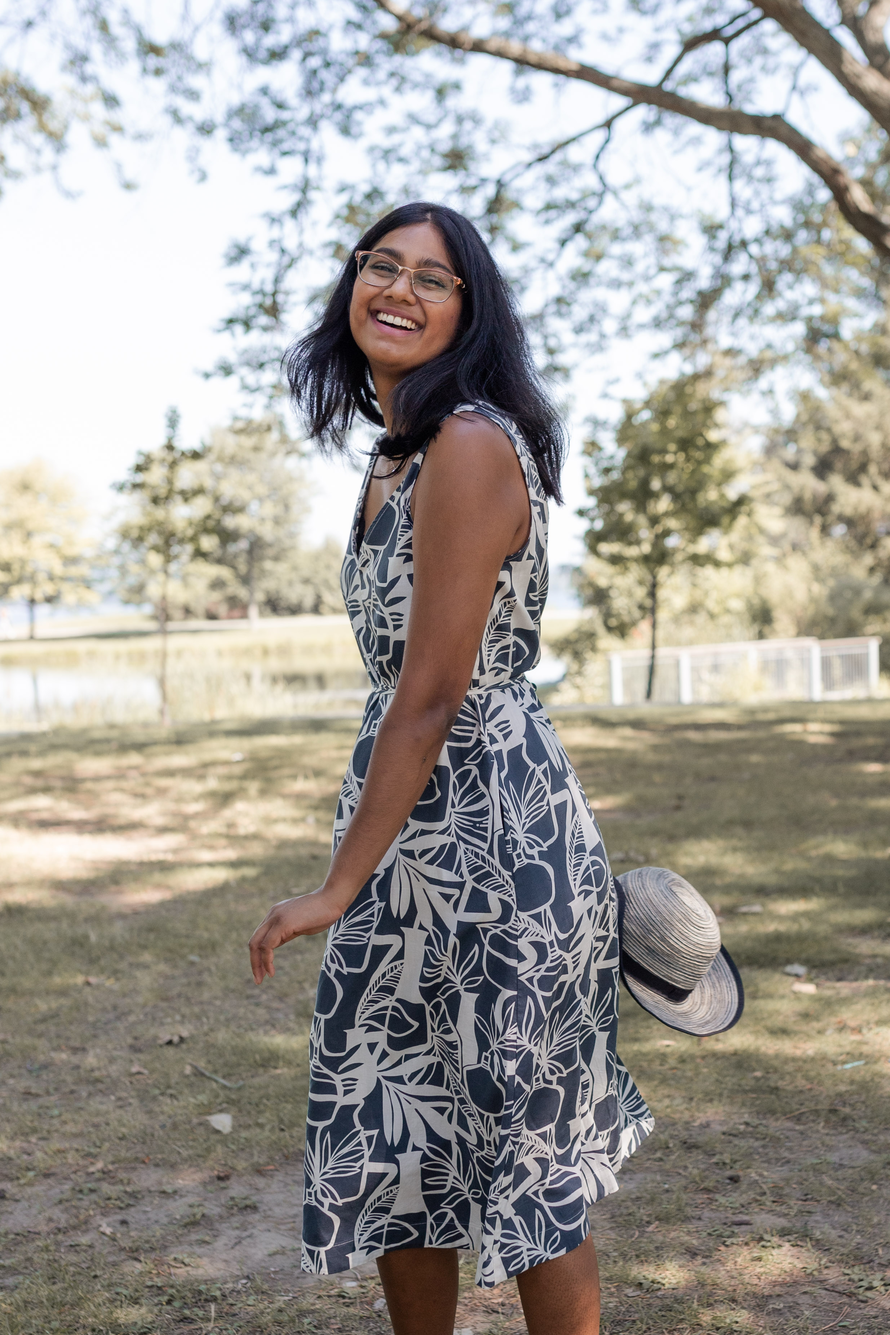
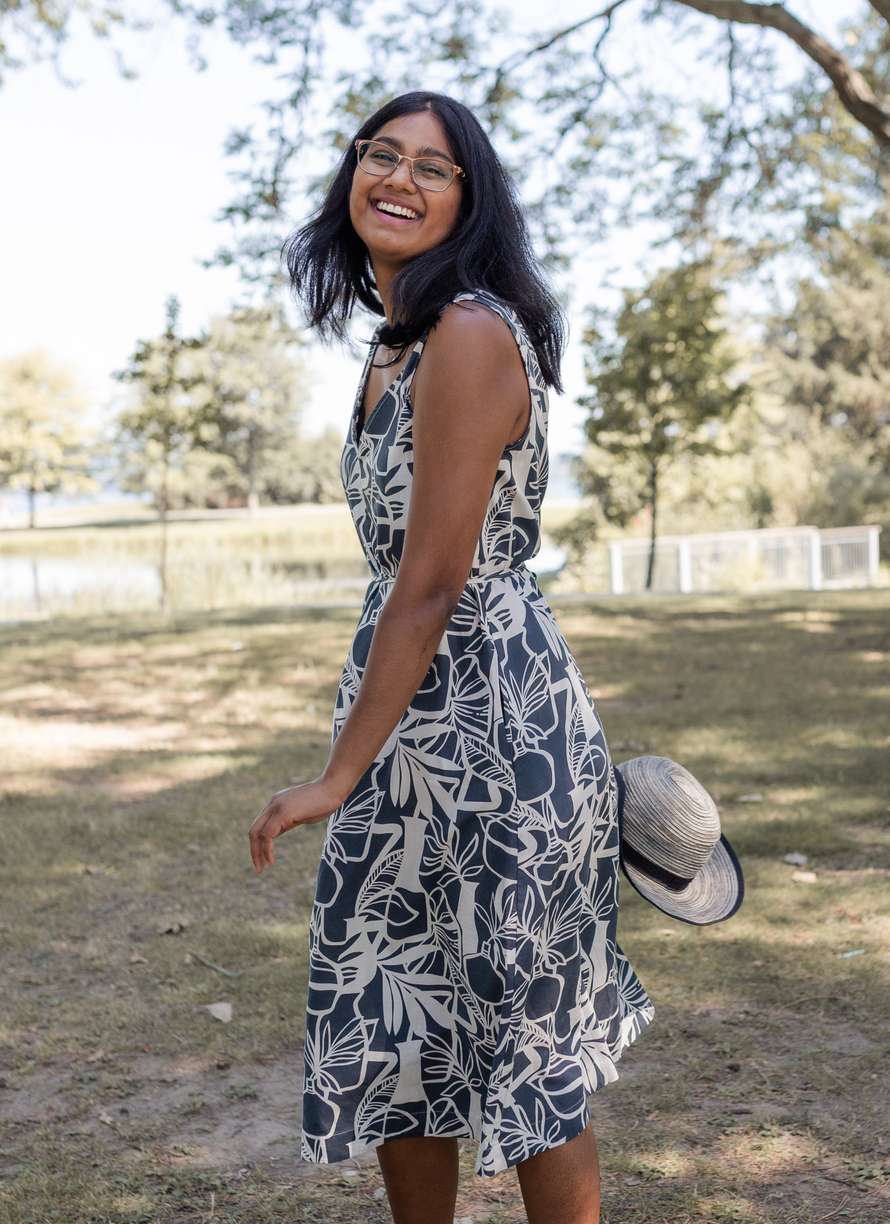
changes

diff --git a/src/pages/about.js b/src/pages/about.js
@@ -6,79 +6,82 @@ import Profile from "../images/about/me-standing-cropped.jpg";
 
 function About() {
   return (
-    <div className="container flex flex-col py-24 gap-y-12 items-center">
-      <div className="flex max-w-4xl">
-        <div className="flex flex-col items-end">
-          <div className="flex flex-col gap-y-2">
-            <div className="h3">About Me</div>
-            <div className="h4 max-w-xl">
-              Hi, I'm Karena. I'm passionate about creating thoughtful
-              experiences and carefully crafted interfaces. Recently I've
-              specialized myself in product design. I've been interested in
-              interfaces since I was twelve, recreating websites pixel for pixel
-              in Adobe Photoshop. I've worked on applications that are being
-              used in Canadian Tire Stores, signage for successful political
-              campaigns and designed for startups in Ottawa, Toronto and
-              Montreal.
-            </div>
-            <div className="h4 max-w-xl">
-              Just some fun things about myself. I enjoy music in a variety of
-              languages, like Spanish and French. I also enjoy reading about
-              design, and programming in my free time! (I coded this site 🤓)
-            </div>
+    <div className="container">
+      <div className="">
+        <div className="h-[15vh] w-full"></div>
+        <div className="flex flex-col lg:flex-row gap-x-12 justify-between">
+          <div className="flex flex-col w-full">
+            <img
+              className="object-cover object-top w-40 md:w-full md:h-[40rem] rounded-[1.2rem] shadow-[0_35px_60px_-15px_rgba(59,130,246,0.25)] m-4 border-[0.5px] border-gray-50"
+              src={Me}
+              alt="me!"
+            />
+            <div className="h5 text-center">This is a pic of me! 💃 </div>
           </div>
-        </div>
-      </div>
-      <div className="flex items-center gap-x-12 justify-center">
-        <div className="flex max-w-4xl">
-          <div className="flex flex-col items-end">
-            <div className="flex flex-col gap-y-2">
-              <div className="h4">Contact</div>
-              <div className="max-w-xl flex gap-x-12">
-                <div className="flex flex-col">
-                  <div className="h5 text-gray-400">Email</div>
-                  <div className="h5 text-gray-400">LinkedIn</div>
-                  <div className="h5 text-gray-400">Instagram</div>
-                </div>
-                <div className="flex flex-col">
-                  <div className="h5 text-gray-800">
-                    <a
-                      target="_blank"
-                      href="mailto:k.mistry1898@gmail.com"
-                      className="flex gap-x-1 items-center justify-center"
-                    >
-                      k.mistry1898@gmail.com
-                    </a>
-                  </div>
-                  <div className="h5 text-gray-800">
-                    <a
-                      className=""
-                      target="_blank"
-                      href="https://www.linkedin.com/in/karenamistry/"
-                    >
-                      LinkedIn
-                    </a>
-                  </div>
-                  <div className="h5 text-gray-800">
-                    <a
-                      className=""
-                      target="_blank"
-                      href="https://www.instagram.com/karena_mistry/"
-                    >
-                      Instagram
-                    </a>
-                  </div>
-                </div>
+          <div className="flex flex-col gap-y-6">
+            <div className="h3 min-w-3xl">
+              <span className="text-blue-600">👩💻 Hello!</span> I'm Karena. I'm
+              currently a product designer for Dyanmic CXS, I've previously
+              designed for startups across Canada.
+            </div>
+            <div className="flex flex-col gap-y-2 max-w-xl">
+              <div className="h5">Some Things About Me</div>
+              <div className="h4">
+                I studied design in the York University/Sheridan College Joint
+                program. Recently I've specialized myself in product design but
+                i've been interested in interface and experience since I was
+                twelve, recreating websites pixel for pixel in Adobe Photoshop
+                (version 4.0).
+              </div>
+              <div className="h4">
+                I have a experience working in a variety of design fields like
+                print, digital content & ui/ux design. I've worked on
+                applications that are being used in Canadian Tire Stores,
+                signage for successful political campaigns and designed for
+                startups in Ottawa, Toronto and Montreal.
+              </div>
+              <div className="h4">
+                I'm kind of a nerd. I love Marvel movies, playing video games
+                and reading fantasy. I love learning about front end development
+                in my free time (I coded this site 🤓). I love learning, so I
+                also have been reading a lot of about designing experiences and
+                product strategy.
+              </div>
+            </div>
+            <div className="max-w-xl">
+              <div className="h5">Get in touch</div>
+              <div className="h4">
+                I check my email most often at{" "}
+                <a
+                  target="_blank"
+                  href="mailto:k.mistry1898@gmail.com"
+                  className="text-blue-600"
+                >
+                  k.mistry1898@gmail.com
+                </a>
+                . You can visit my{" "}
+                <a
+                  className="text-blue-600"
+                  target="_blank"
+                  href="https://www.linkedin.com/in/karenamistry/"
+                >
+                  LinkedIn
+                </a>
+                . I sometimes post my art, and design discoveries on{" "}
+                <a
+                  className="text-blue-600"
+                  target="_blank"
+                  href="https://www.instagram.com/karena_mistry/"
+                >
+                  Instagram
+                </a>
+                .
               </div>
             </div>
           </div>
         </div>
       </div>
-      <img
-        className="object-cover object-center w-40 md:w-64 md:h-80 rounded-[1.2rem] shadow-[0_35px_60px_-15px_rgba(59,130,246,0.25)] m-4 border-[0.5px] border-gray-50"
-        src={Me}
-        alt="me!"
-      />
+      <div className="h-[25vh] w-full"></div>
     </div>
   );
 }

diff --git a/src/components/hero.js b/src/components/hero.js
@@ -25,16 +25,16 @@ function Hero() {
         <div>
           <div className="h3 max-w-xl">
             <span className="text-blue-600">👩💻 I'm Karena.</span> I'm a product
-            designer based in Canada. I'm passionate about creating thoughtful
-            experiences and carefully crafted interfaces.
+            designer passionate about creating thoughtful experiences and
+            carefully crafted interfaces.
           </div>
         </div>
         <div>
           <motion.div
             transition={{ type: "spring", stiffness: 100 }}
-            className="flex gap-x-2 items-center gray-button"
+            className="flex gap-x-2 items-center h5"
           >
-            <Link to="/about">Read more about me</Link>
+            ↓ scroll to see my work
           </motion.div>
         </div>
       </motion.div>

diff --git a/src/pages/expedite.js b/src/pages/expedite.js
@@ -380,7 +380,7 @@ function Expedite() {
                   to help employees keep track of where they were in the
                   process. We later learned that this was confusing users,
                   because users each counted the steps differently. This was
-                  replaced with a timeline element that just reached closer to
+                  replaced with a timeline element that reached closer to
                   completion at the end of each step.
                 </div>
               </div>

diff --git a/public/index.html b/public/index.html
@@ -24,7 +24,7 @@
       work correctly both with client-side routing and a non-root public URL.
       Learn how to configure a non-root public URL by running `npm run build`.
     -->
-    <title>Karena Mistry | Portfolio</title>
+    <title>Karena Mistry, Designer</title>
   </head>
   <body>
     <noscript>You need to enable JavaScript to run this app.</noscript>

diff --git a/src/components/navbar.js b/src/components/navbar.js
@@ -16,7 +16,7 @@ function Navbar() {
             to="/about"
             className="flex gap-x-1 items-center justify-center blue-button"
           >
-            <div>About</div>
+            <div>Info</div>
           </NavLink>
         </div>
       </div>
